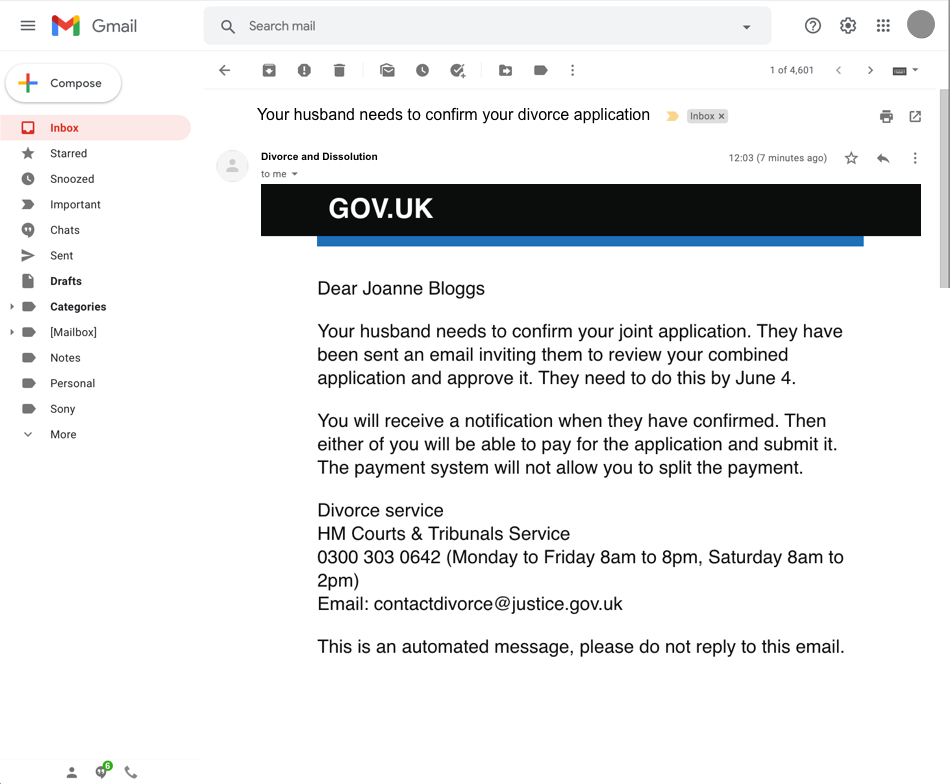
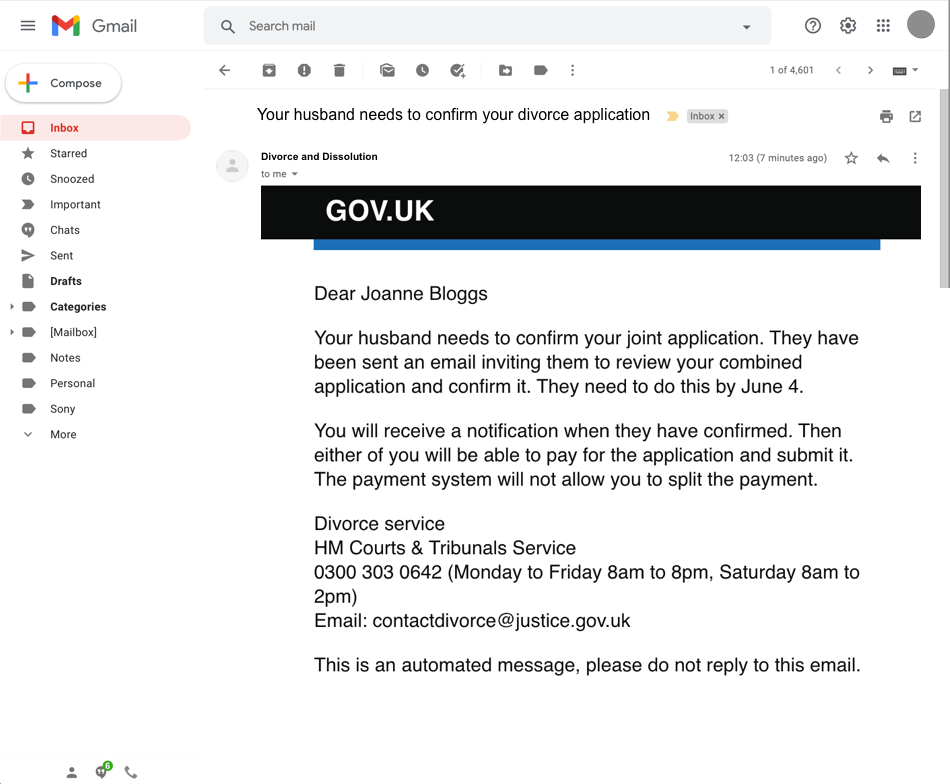
midtestupdates

Changed region(s): [[0.2747, 0.2449, 0.9768, 0.8571]]

diff --git a/app/views/joint_divorce/forgot_access_details.html b/app/views/joint_divorce/forgot_access_details.html
@@ -21,43 +21,32 @@
   </p>
 </div>
 
-
+  <a class="govuk-back-link" href="/joint_divorce/link_applicants">Back</a>
 {% endblock %}
 
 {% block content %}
 
 <div class="govuk-grid-row">
       <div class="govuk-grid-column-two-thirds">
-        <h1 class="govuk-heading-l">Enter your access details</h1>
+        <h1 class="govuk-heading-l">Resend your access details</h1>
 
-        <form action="/joint_divorce/joint_review" method="post" novalidate>
+        <form action="/joint_divorce/link_applicants_resent" method="post" novalidate>
 
-            <p>Your reference number and access code are in the email you received which invited you to this application.</p>
+            <p>Enter the email address where you received the invitation to join this divorce application. An access code and reference number will be resent to this email address.   </p>
 
           <div class="govuk-form-group">
             <label class="govuk-label govuk-label--m" for="joint-ref">
-              Your reference number
+              Email address
             </label>
               <div id="joint-ref-hint" class="govuk-hint">
-              This is a 16-digit number
+              Enter the email address where you received the invitation
             </div>
-            <input class="govuk-input govuk-input--width-20" id="joint-ref" name="joint-ref" type="text" aria-describedby="joint-ref-hint">
-            </div>
-
-          <div class="govuk-form-group">
-            <label class="govuk-label govuk-label--m" for="joint-access-code">
-              Your access code
-            </label>
-              <div id="joint-access-code-hint" class="govuk-hint">
-              This is 8 characters
-            </div>
-            <input class="govuk-input govuk-input--width-20" id="joint-access-code" name="joint-access-code" type="text" aria-describedby="joint-access-code-hint">
+            <input class="govuk-input govuk-input--width-20" id="joint-ref" name="joint-ref" type="text" aria-describedby="joint-ref-hint" value="{{ data['joint-ref'] }}">
             </div>
 
-            <p><a href="forgot_access_details">I do not know my access details</a></p>
 
           <button class="govuk-button" data-module="govuk-button">
-            Continue
+            Resend
           </button>
 
         </form>

diff --git a/app/views/joint_divorce/link_applicants_resent.html b/app/views/joint_divorce/link_applicants_resent.html
@@ -32,7 +32,7 @@
 
         <form action="/joint_divorce/joint_review" method="post" novalidate>
 
-            <p>Your reference number and access code are in the email you received which invited you to this application.</p>
+            <p>Your access details have been re-sent to: {{ data['joint-ref'] }}</p>
 
           <div class="govuk-form-group">
             <label class="govuk-label govuk-label--m" for="joint-ref">
@@ -51,7 +51,7 @@
               <div id="joint-access-code-hint" class="govuk-hint">
               This is 8 characters
             </div>
-            <input class="govuk-input govuk-input--width-20" id="joint-access-code" name="joint-access-code" type="text" aria-describedby="joint-access-code-hint">
+            <input class="govuk-input govuk-input--width-20" id="joint-access-code" name="joint-access-code" type="text" aria-describedby="joint-access-code-hint" value="{{ data['joint-access-code'] }}">
             </div>
 
             <p><a href="forgot_access_details">I do not know my access details</a></p>

diff --git a/app/views/joint_divorce/application_review_co_app.html b/app/views/joint_divorce/application_review_co_app.html
@@ -35,7 +35,7 @@
                 </h1>
 
             <p class="govuk-body">
-              Your husband or wife needs to confirm your joint application. They have been sent an email inviting them to review your combined answers and approve it. They need to do this by 4th June 2021.
+              Your husband or wife needs to confirm your joint application. They have been sent an email inviting them to review your combined answers and confirm it. They need to do this by 4th June 2021.
 .
 </p>
           <p class="govuk-body">
